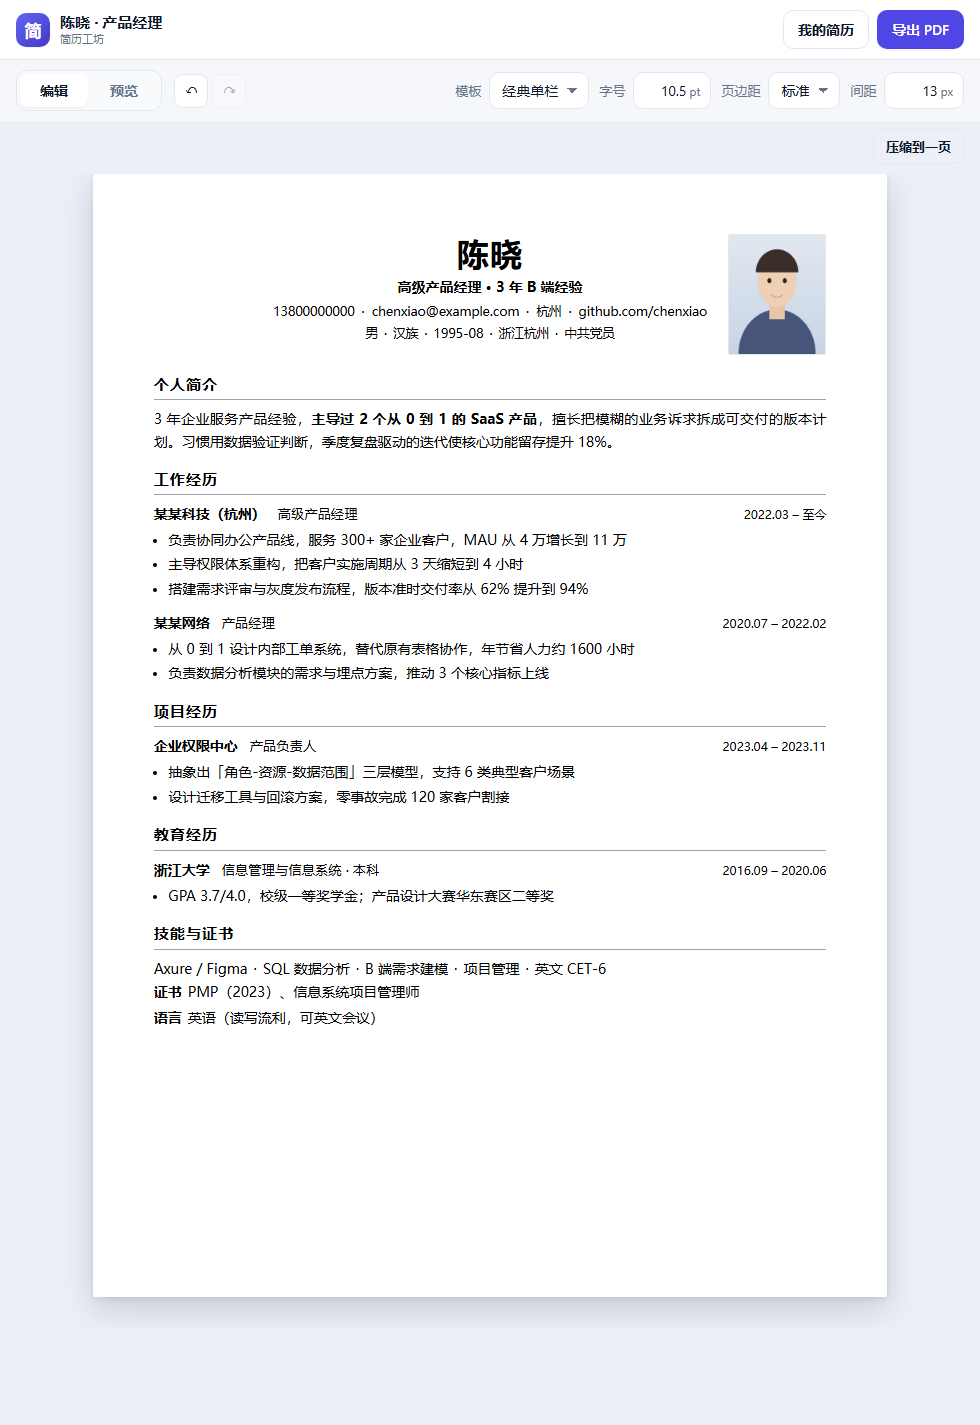
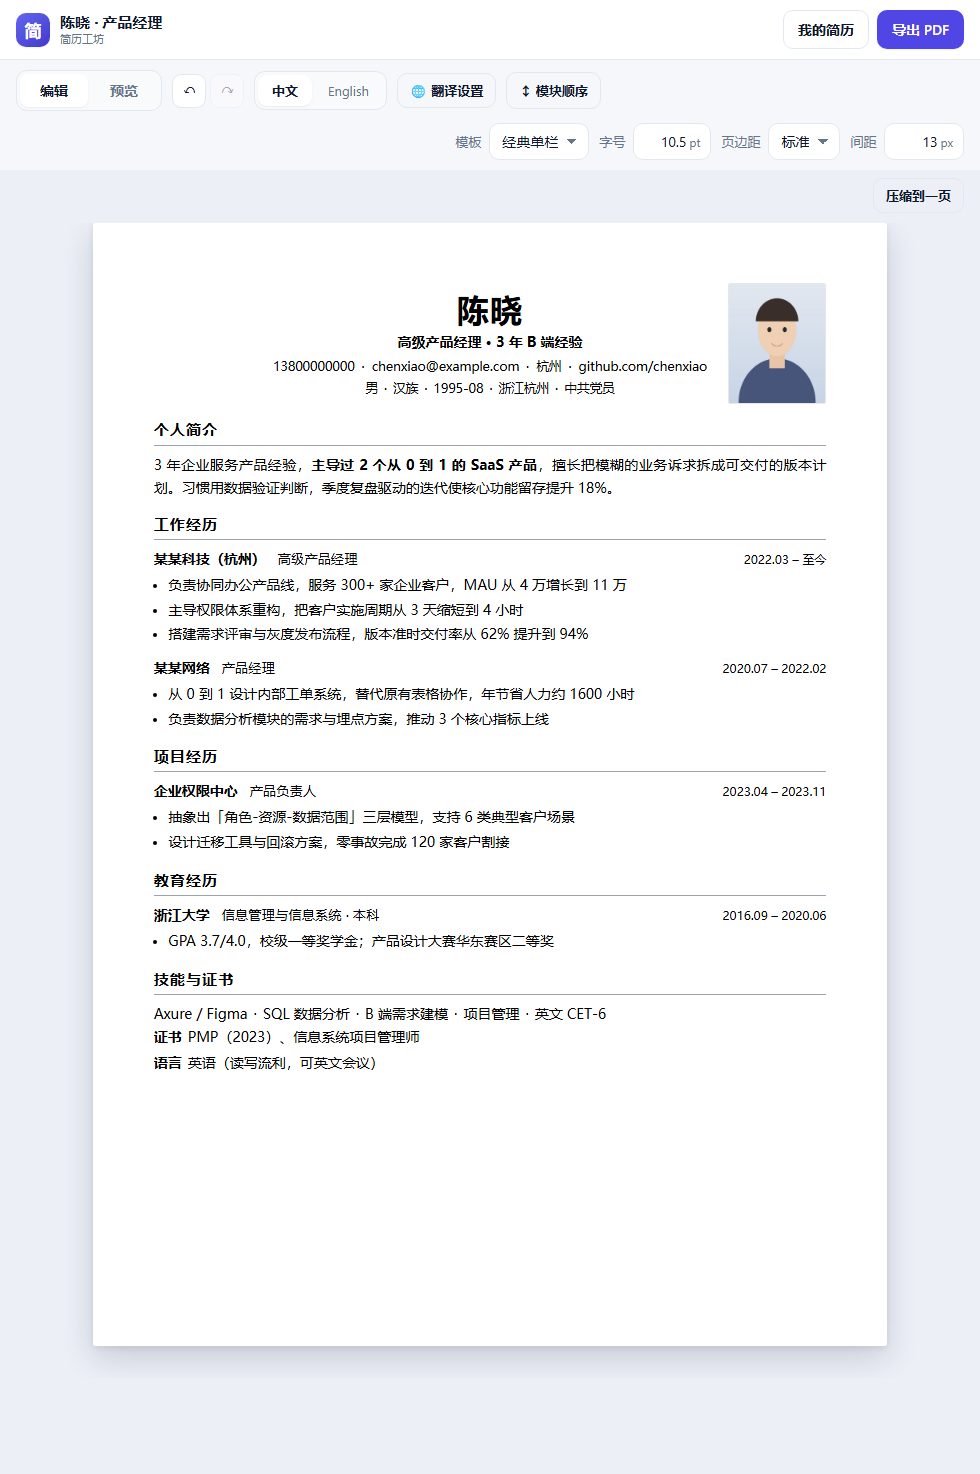
fix: 有照片时文字块与照片等高、垂直居中，上下留白一致

diff --git a/css/resume.css b/css/resume.css
@@ -239,11 +239,22 @@
 /* 有照片时：左右等距内缩，保证姓名仍然居中，照片贴在右上角 */
 
 .tpl-classic .r-head--with-photo {
-  /* 照片尺寸跟着字号一起缩放，这里的最小高度和内缩也要跟着变，
-     否则压缩到一页时会出现"字很小、照片很大"*/
-  min-height: calc(33mm * var(--fs, 1));
+  /* 照片和文字块共用同一个高度：照片多高，文字块就多高，里面的内容垂直居中，
+     这样上下留白一致，不会出现"照片比文字高出一截" */
+  --photo-h: calc(32mm * var(--fs, 1));
+  display: flex;
+  align-items: stretch;
+  min-height: var(--photo-h);
   /* 雅黑比原来的字体宽，留白收到 26mm，四个联系方式才能排成一行 */
-  padding: 0 calc(26mm * var(--fs, 1)) calc(9px * var(--fs, 1));
+  padding: 0 calc(26mm * var(--fs, 1));
+}
+
+.tpl-classic .r-head--with-photo .r-head-text {
+  flex: 1;
+  display: flex;
+  flex-direction: column;
+  justify-content: center;
+  min-height: var(--photo-h);
 }
 
 .tpl-classic .r-photo {
@@ -251,7 +262,7 @@
   top: 0;
   right: 0;
   width: calc(26mm * var(--fs, 1));
-  height: calc(32mm * var(--fs, 1));
+  height: var(--photo-h);
   border-radius: 2px;
   border: 1px solid #e5e7eb;
 }
@@ -457,8 +468,19 @@
 
 /* 极简模板：照片靠右，黑白处理，和整体风格一致 */
 .tpl-minimal .r-head--with-photo {
-  min-height: calc(28mm * var(--fs, 1));
+  --photo-h: calc(27mm * var(--fs, 1));
+  display: flex;
+  align-items: stretch;
+  min-height: var(--photo-h);
   padding-right: calc(30mm * var(--fs, 1));
+}
+
+.tpl-minimal .r-head--with-photo .r-head-text {
+  flex: 1;
+  display: flex;
+  flex-direction: column;
+  justify-content: center;
+  min-height: var(--photo-h);
 }
 
 .tpl-minimal .r-photo {
@@ -466,7 +488,7 @@
   top: 0;
   right: 0;
   width: calc(22mm * var(--fs, 1));
-  height: calc(27mm * var(--fs, 1));
+  height: var(--photo-h);
   filter: grayscale(100%);
   border: 1px solid #d4d4d4;
 }

diff --git a/index.html b/index.html
@@ -14,7 +14,7 @@
     <meta name="twitter:card" content="summary" />
     <meta name="theme-color" content="#4f46e5" media="(prefers-color-scheme: light)" />
     <meta name="theme-color" content="#0b0f19" media="(prefers-color-scheme: dark)" />
-    <meta name="app-version" content="0.5.2" />
+    <meta name="app-version" content="0.5.3" />
     <link rel="manifest" href="./manifest.webmanifest" />
     <link rel="icon" href="./assets/icon.svg" type="image/svg+xml" />
     <link rel="apple-touch-icon" href="./assets/icon-192.png" />

diff --git a/sw.js b/sw.js
@@ -7,7 +7,7 @@
  * 改完代码要让用户看到更新，把 CACHE 名字加个版本号即可（必要时引导刷新）。
  */
 
-const CACHE = 'resume-app-v0.5.2';
+const CACHE = 'resume-app-v0.5.3';
 
 const ASSETS = [
   './',
